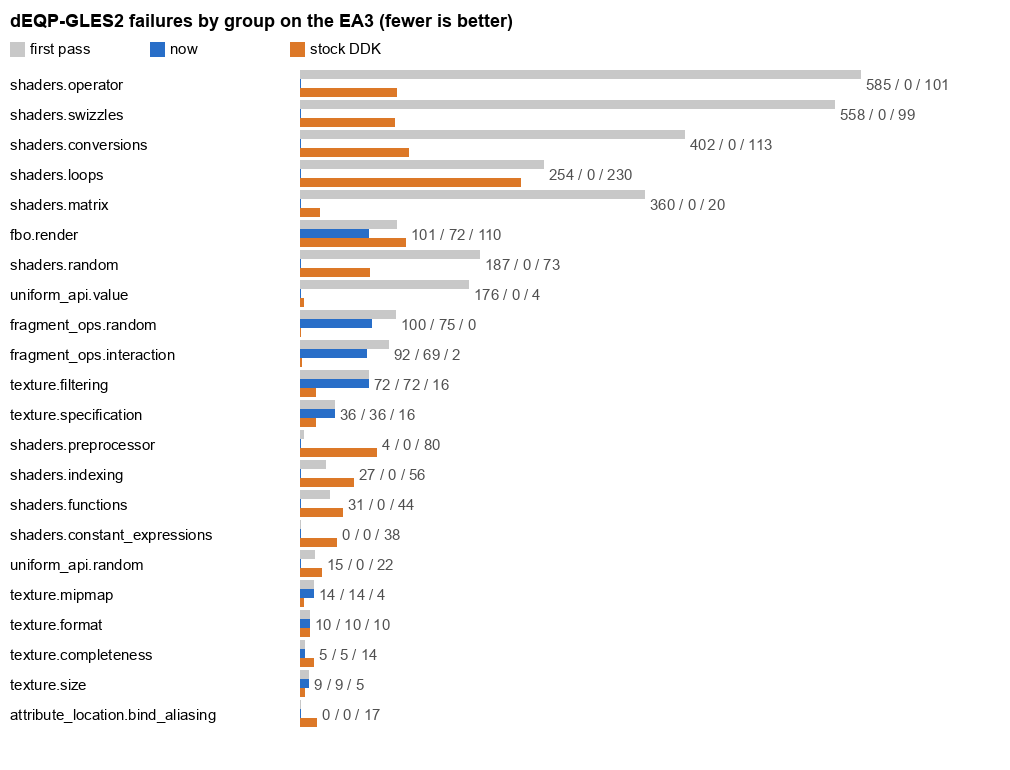
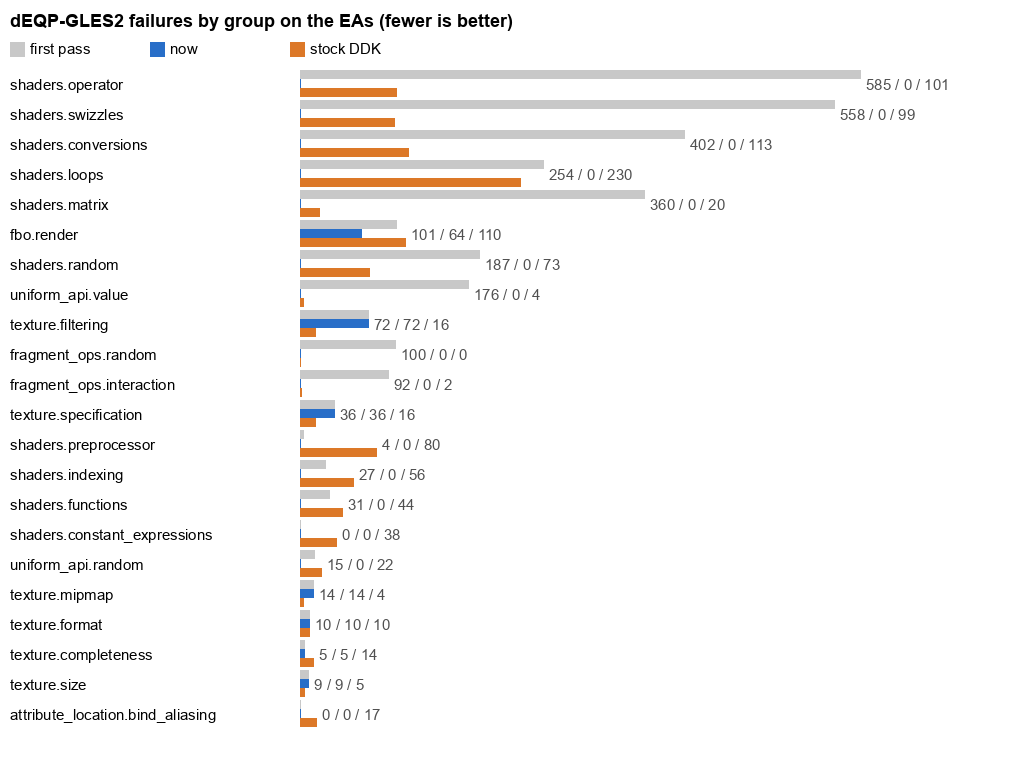
build log: dEQP-GLES2 at 96.1% after the blend and RGB render-texture fixes; chart and data with the EA1 rerun

diff --git a/docs/log/entries/2026-11-02-1530-deqp-gles2.md b/docs/log/entries/2026-11-02-1530-deqp-gles2.md
@@ -1,4 +1,4 @@
-# dEQP-GLES2 on the EA3: 95.2%, and the stock DDK 92.3%
+# dEQP-GLES2 on the EAs: 96.1%, and the stock DDK 92.3%
 
 The first full conformance runs of the open driver, and of the DDK it replaces, on the
 same EA3, kernel (#124 RAM image) and dEQP build: VK-GL-CTS 4.6.8.0 dEQP-GLES2, 17,165
@@ -10,13 +10,14 @@ leaves the GPU stuck.
 | | pass | fail | crash | timeout | not supported |
 |---|---|---|---|---|---|
 | ours, first pass | 13,592 (79.2%) | 3,075 | 35 | 1 | 445 |
-| ours, now | **16,337 (95.2%)** | 378 | 0 | 1 | 445 |
+| ours, now | **16,491 (96.1%)** | 224 | 0 | 1 | 445 |
 | stock DDK (Cedarview 1.7, i386 under IA32) | 15,837 (92.3%) | 1,146 | 11 | 8 | 124 |
 
 ![Failures per group: first pass, now, and the DDK](../img/2026-11-02-1530-deqp-gles2-groups.png)
 
 "Now" is the first pass with the failing tests rerun on each later build (up to um-re
-c76d83e), not a second full pass. 1-in-4 samples of the whole suite on two of the later
+c76d83e on the EA3, then um-re 7c53a80 on the EA1, which took over GPU testing that
+evening), not a second full pass. 1-in-4 samples of the whole suite on two of the later
 builds found nothing new beyond order-dependent `fbo.render` cases (they fail after other FBO
 tests and pass alone; listed as flakes) and an F16 uniform regression that was fixed the same morning (below). Data:
 `data/2026-11-02-1530-deqp-gles2.csv`; expectations:
@@ -37,6 +38,16 @@ tests and pass alone; listed as flakes) and an F16 uniform regression that was f
   to the next, which made it look like uninitialised memory. The DDK's capture reads
   27 dwords for this block; 27 and 28 work, 24 and 25 don't (STATE.md). +45 in
   `fragment_ops`.
+- Blends with SUBTRACT on one side and REVERSE_SUBTRACT on the other. The blend
+  instruction subtracts in one direction for colour and alpha both, so the driver turned
+  such blends off, and every `fragment_ops.random` and `interaction` case that drew with
+  one came out wrong. The constant-factor form multiplies each side into r0 and r1 before
+  the subtract; putting the alpha products in the other register reverses alpha alone.
+  +144, all of `fragment_ops`. The extra blend variants then filled the 256 KB pixel
+  program ring (now 1 MB, 32 variants a shader).
+- RGB render textures: sampling one reads its X byte as alpha, and draws and scissored
+  clears wrote the colour's alpha there. The texture starts at 0xff and draws into it
+  blend to keep the tile's alpha.
 - FBO crashes (a target destroyed while its frame was recorded), X-alpha clears, culling
   both faces, constant-alpha blending.
 
@@ -47,12 +58,14 @@ swizzles 99, operators 83, preprocessor 80, indexing 56): 864 of its 1,165 failu
 Its compiler never returns on dEQP's recursive macros; those ten tests took the box down
 seven times, so they're in `ddk-skips.txt`.
 
-Ours (378, of which 12 are the order-dependent `fbo.render` flakes, failing in their latest run):
+Ours (224, of which some `fbo.render` cases are order-dependent: they fail after other
+FBO tests and pass in their own group):
 
-- `fragment_ops.random`/`interaction`: 144. The DDK fails 2.
-- Cube maps: 141. NPOT faces, the small-face layout, 8/16-bit and ETC1 faces. The DDK
-  fails many of these too.
-- `fbo.render`: 60. The shared and recreated colour buffers fail on the DDK as well;
+- Cube maps: 141. NPOT faces have no cube layout: the DDK samples a 12×12 cube as one
+  linear face and fails every NPOT cube test. The rest are faces of 8- and 16-bit
+  formats with mip chains, and chains sampled without mipmapping; DDK captures on the
+  EA1 give both layouts (TEX.md section 8), and the fix waits on a hardware run.
+- `fbo.render`: 59. The shared and recreated colour buffers fail on the DDK as well;
   ours also stores 565/4444/5551 targets as RGBA8.
 - Compiler: none left. The last four (`all_features` 5/20/32/88) were a value stored to
   a register in a branch, never copied when a texture sample produced it (um-re c76d83e).
@@ -66,9 +79,10 @@ Ours (378, of which 12 are the order-dependent `fbo.render` flakes, failing in t
   `mediump mat4[3]` put F16 constants past sa31, which a format-select operand can't
   reach, so the eight `uniform_api.value.initial` shaders never compiled. Both are fixed
   in the compiler (um-re 9e1f2c1), +13.
-- Small groups: polygon offset units, wide lines (the DDK fails them too), points from
-  `glDrawElements` (the DDK fails them too), separate RGB/alpha subtract equations, and
-  `max_vertex_uniform_vectors`.
+- Small groups: polygon offset (the bias is per render in the render details, the tests
+  change it between draws), wide lines (the DDK fails them too), points from
+  `glDrawElements` (the DDK fails them too), a depth+stencil clear, and
+  `max_vertex_uniform_vectors` (120: Mesa keeps 8 for clip planes).
 
 The SGX hardware recovered about 70 times during the night's runs without a wedge; the
 two-sided block is the likely source of many of them.
